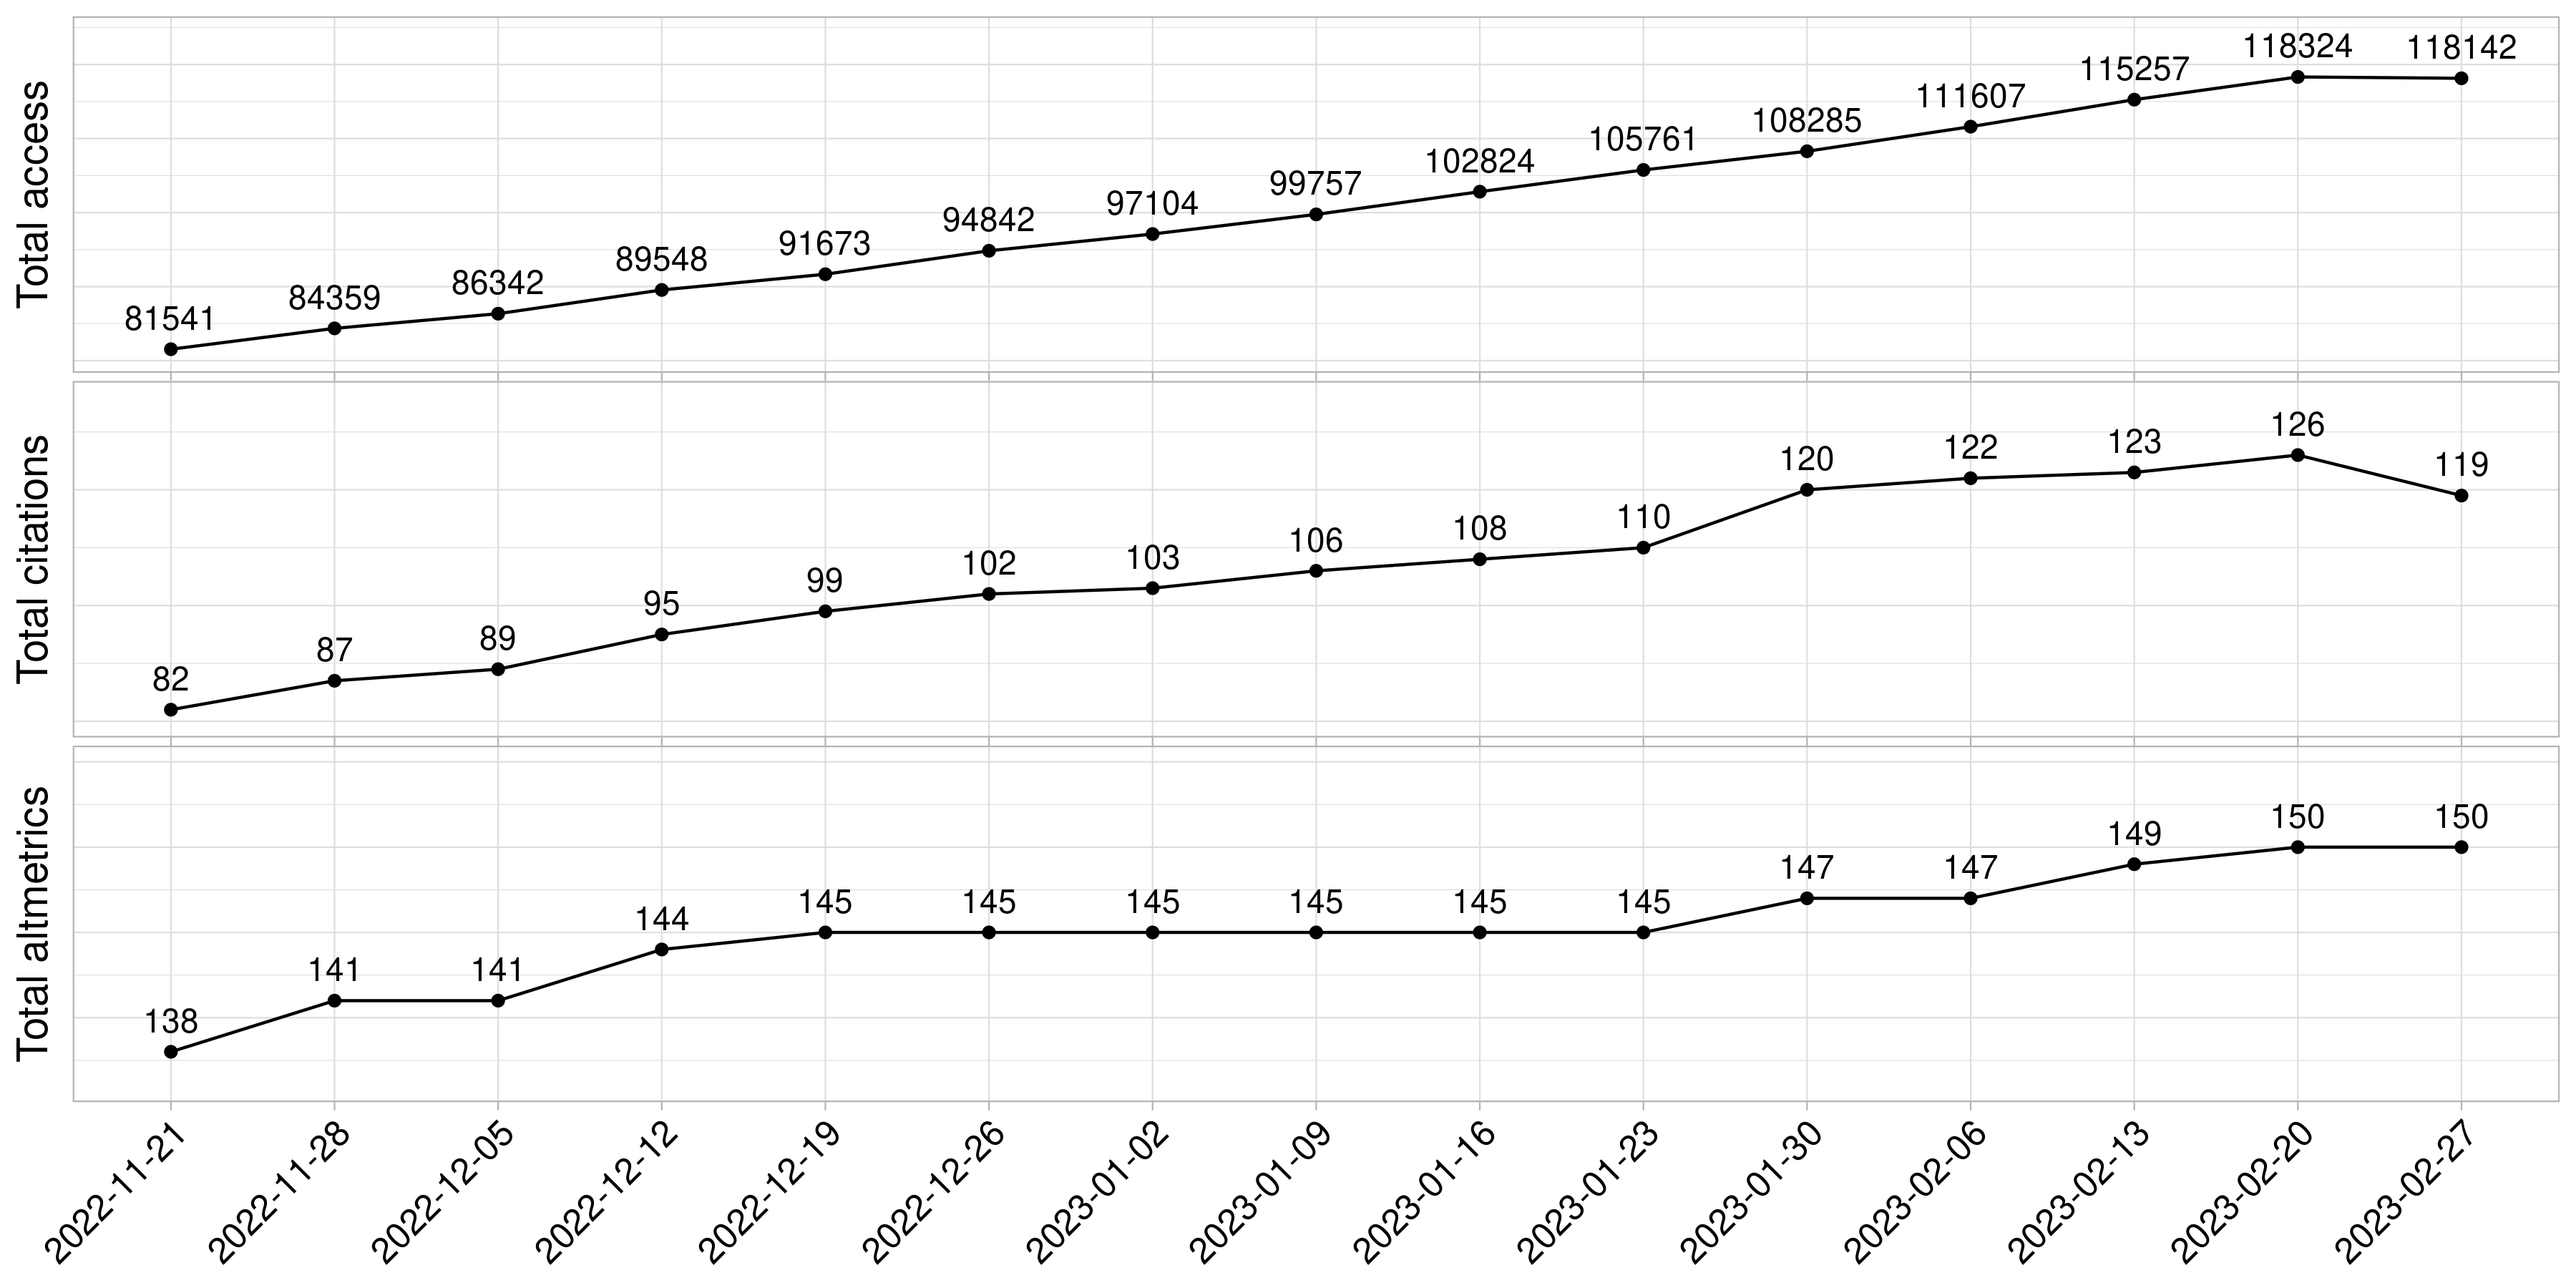
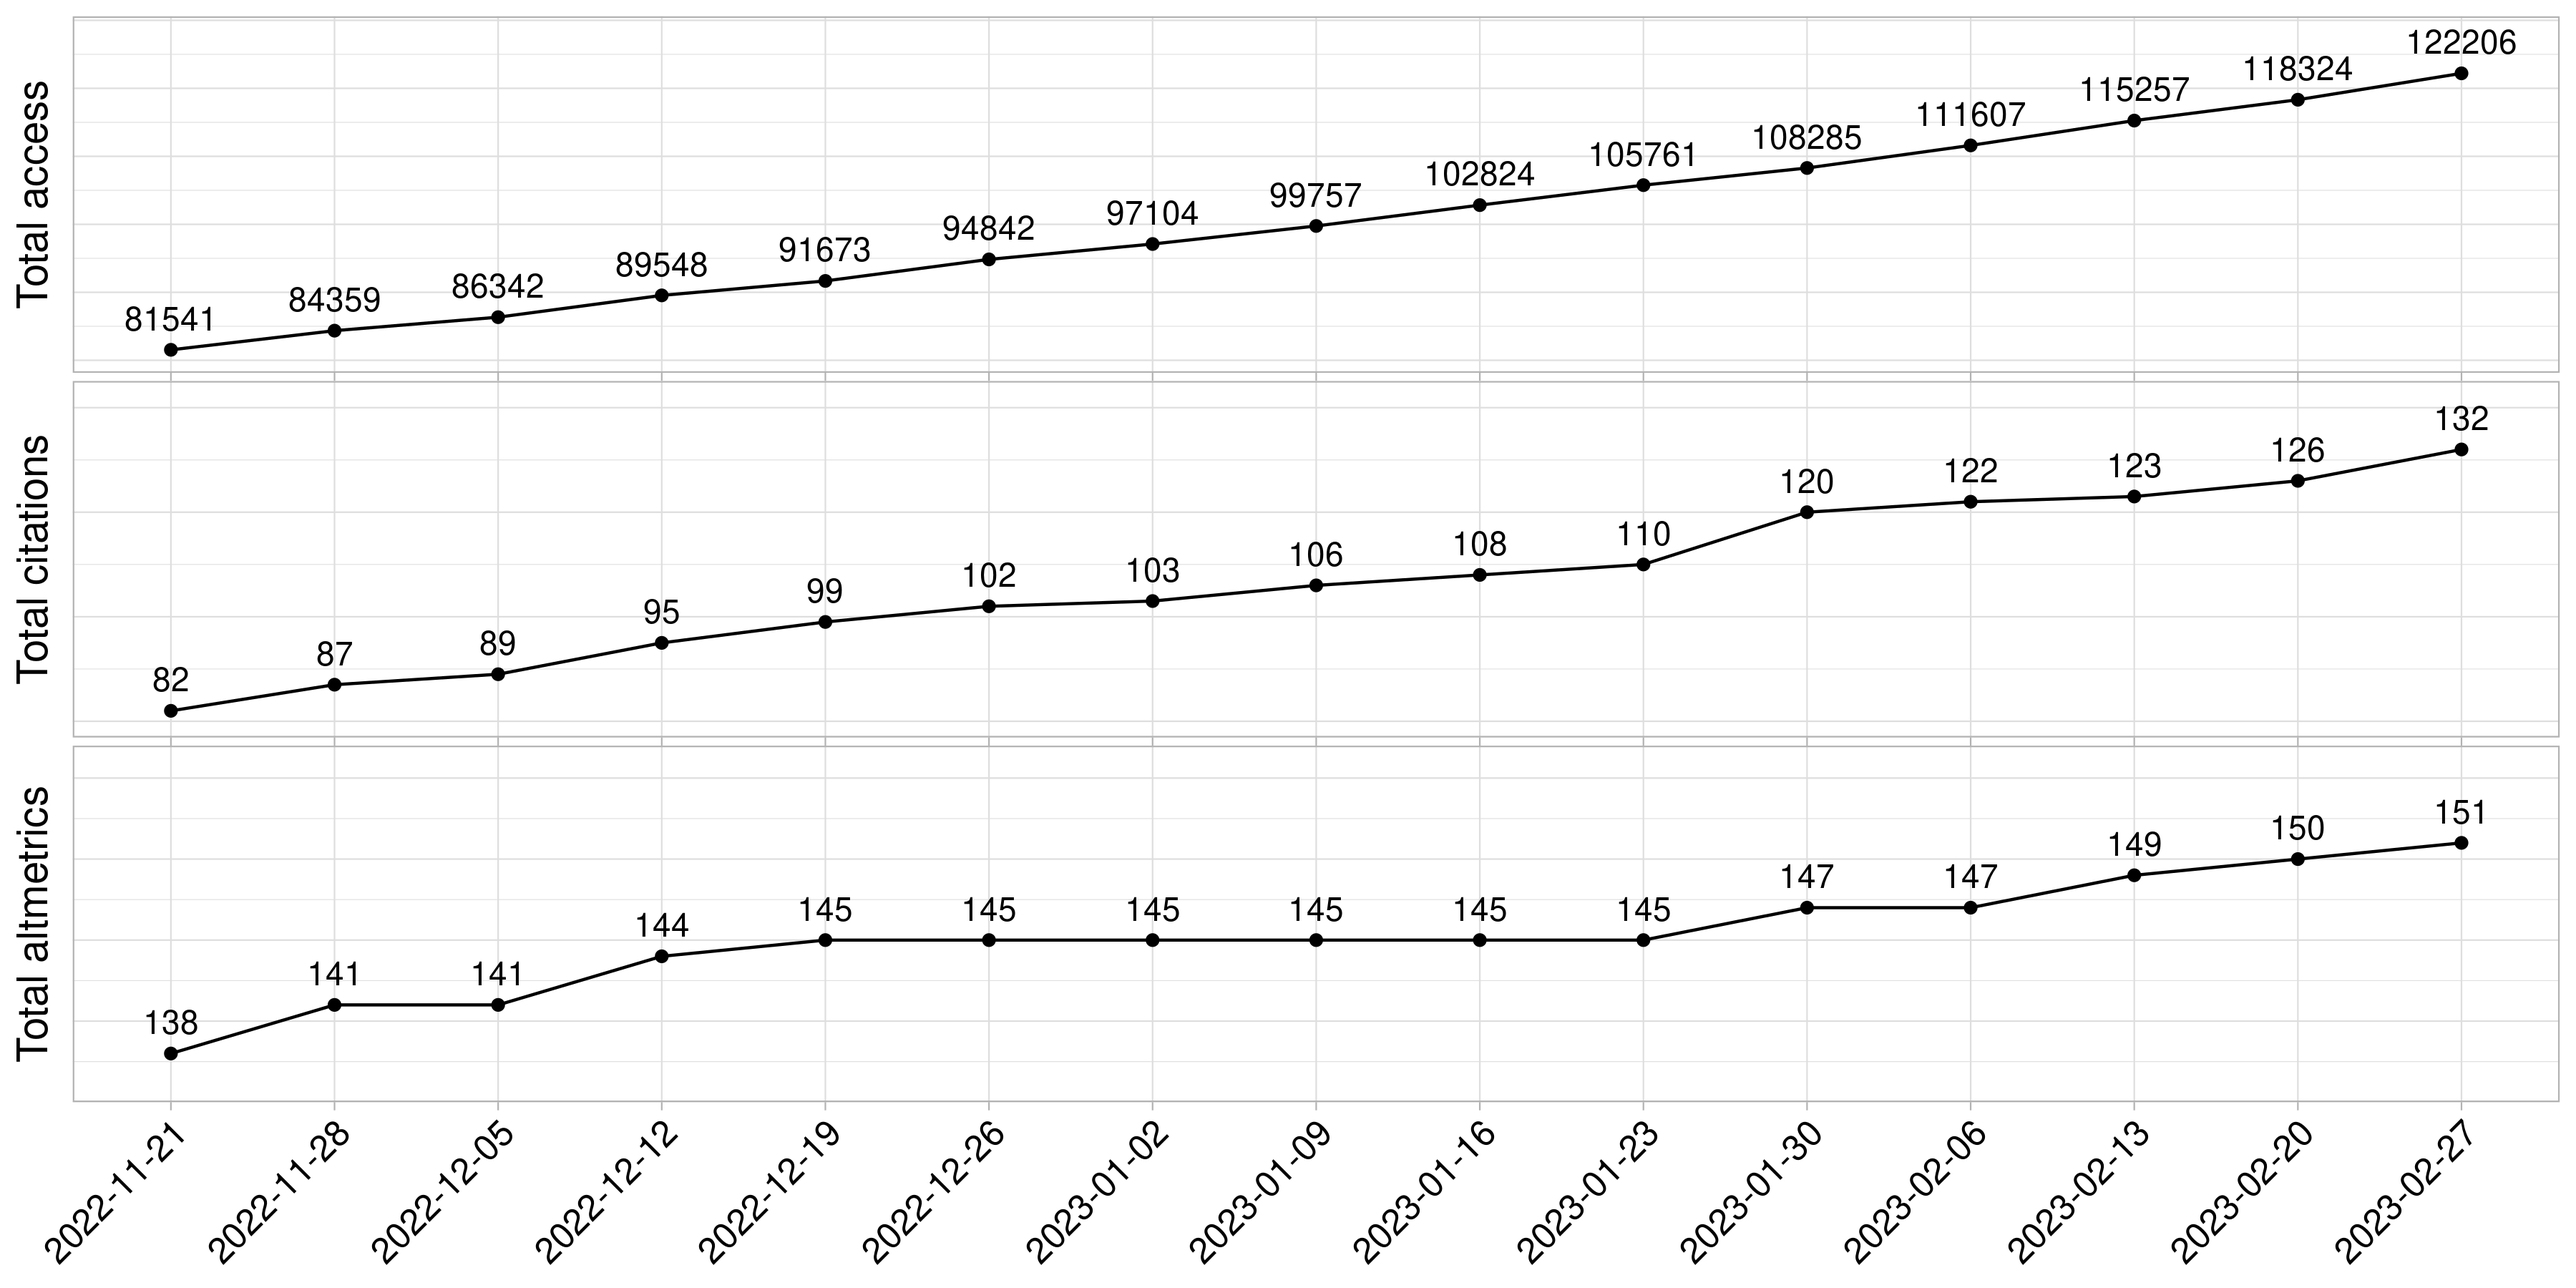
20230227

diff --git a/weekly_online_paper_metrices/README.md b/weekly_online_paper_metrices/README.md
@@ -36,7 +36,7 @@
    <td style="text-align:center;"> <a href="http://link.springer.com/article/10.1007/s43657-022-00093-8" style="     " >Presence of Rare Variants is ...</a> </td>
    <td style="text-align:center;"> Article </td>
    <td style="text-align:center;"> 2023-02-12 </td>
-   <td style="text-align:center;"> 199 </td>
+   <td style="text-align:center;"> 205 </td>
    <td style="text-align:center;"> 0 </td>
    <td style="text-align:center;"> 0 </td>
    <td style="text-align:center;"> NA </td>
@@ -46,7 +46,7 @@
    <td style="text-align:center;"> <a href="http://link.springer.com/article/10.1007/s43657-022-00089-4" style="     " >Phenomic Studies on Diseases: Potential ...</a> </td>
    <td style="text-align:center;"> Review </td>
    <td style="text-align:center;"> 2023-01-05 </td>
-   <td style="text-align:center;"> 420 </td>
+   <td style="text-align:center;"> 430 </td>
    <td style="text-align:center;"> 1 </td>
    <td style="text-align:center;"> 1 </td>
    <td style="text-align:center;"> NA </td>
@@ -56,7 +56,7 @@
    <td style="text-align:center;"> <a href="http://link.springer.com/article/10.1007/s43657-022-00087-6" style="     " >Deep Learning-Assisted Quantitative Susceptibility Mapping ...</a> </td>
    <td style="text-align:center;"> Article </td>
    <td style="text-align:center;"> 2023-01-05 </td>
-   <td style="text-align:center;"> 350 </td>
+   <td style="text-align:center;"> 354 </td>
    <td style="text-align:center;"> 0 </td>
    <td style="text-align:center;"> 1 </td>
    <td style="text-align:center;"> NA </td>
@@ -106,7 +106,7 @@
    <td style="text-align:center;"> <a href="http://link.springer.com/article/10.1007/s43657-022-00082-x" style="     " >A Genome-Wide Association Study for ...</a> </td>
    <td style="text-align:center;"> Article </td>
    <td style="text-align:center;"> 2022-12-05 </td>
-   <td style="text-align:center;"> 560 </td>
+   <td style="text-align:center;"> 564 </td>
    <td style="text-align:center;"> 0 </td>
    <td style="text-align:center;"> 1 </td>
    <td style="text-align:center;"> NA </td>
@@ -136,7 +136,7 @@
    <td style="text-align:center;"> <a href="http://link.springer.com/article/10.1007/s43657-022-00078-7" style="     " >A Meta-Analysis of the Genome-Wide ...</a> </td>
    <td style="text-align:center;"> Article </td>
    <td style="text-align:center;"> 2022-11-18 </td>
-   <td style="text-align:center;"> 837 </td>
+   <td style="text-align:center;"> 840 </td>
    <td style="text-align:center;"> 0 </td>
    <td style="text-align:center;"> 7 </td>
    <td style="text-align:center;"> 3 </td>
@@ -146,7 +146,7 @@
    <td style="text-align:center;"> <a href="http://link.springer.com/article/10.1007/s43657-022-00069-8" style="     " >Increased Soluble Epoxide Hydrolase Activity ...</a> </td>
    <td style="text-align:center;"> Article </td>
    <td style="text-align:center;"> 2022-10-27 </td>
-   <td style="text-align:center;"> 744 </td>
+   <td style="text-align:center;"> 747 </td>
    <td style="text-align:center;"> 0 </td>
    <td style="text-align:center;"> 1 </td>
    <td style="text-align:center;"> 3 </td>
@@ -186,7 +186,7 @@
    <td style="text-align:center;"> <a href="http://link.springer.com/article/10.1007/s43657-022-00073-y" style="     " >Skin Microbiome, Metabolome and Skin ...</a> </td>
    <td style="text-align:center;"> Review </td>
    <td style="text-align:center;"> 2022-10-10 </td>
-   <td style="text-align:center;"> 2097 </td>
+   <td style="text-align:center;"> 2106 </td>
    <td style="text-align:center;"> 0 </td>
    <td style="text-align:center;"> 2 </td>
    <td style="text-align:center;"> 2 </td>
@@ -256,7 +256,7 @@
    <td style="text-align:center;"> <a href="http://link.springer.com/article/10.1007/s43657-022-00064-z" style="     " >Cross-sectional Exploration of the Relationship ...</a> </td>
    <td style="text-align:center;"> Article </td>
    <td style="text-align:center;"> 2022-08-16 </td>
-   <td style="text-align:center;"> 778 </td>
+   <td style="text-align:center;"> 781 </td>
    <td style="text-align:center;"> 0 </td>
    <td style="text-align:center;"> 2 </td>
    <td style="text-align:center;"> NA </td>
@@ -266,7 +266,7 @@
    <td style="text-align:center;"> <a href="http://link.springer.com/article/10.1007/s43657-022-00066-x" style="     " >Human Genetic Variants Associated with ...</a> </td>
    <td style="text-align:center;"> Article </td>
    <td style="text-align:center;"> 2022-08-13 </td>
-   <td style="text-align:center;"> 1218 </td>
+   <td style="text-align:center;"> 1223 </td>
    <td style="text-align:center;"> 2 </td>
    <td style="text-align:center;"> 2 </td>
    <td style="text-align:center;"> 2 </td>
@@ -326,7 +326,7 @@
    <td style="text-align:center;"> <a href="http://link.springer.com/article/10.1007/s43657-022-00062-1" style="     " >Identification of Germline Mutations in ...</a> </td>
    <td style="text-align:center;"> Article </td>
    <td style="text-align:center;"> 2022-06-11 </td>
-   <td style="text-align:center;"> 1208 </td>
+   <td style="text-align:center;"> 1210 </td>
    <td style="text-align:center;"> 1 </td>
    <td style="text-align:center;"> 1 </td>
    <td style="text-align:center;"> NA </td>
@@ -356,7 +356,7 @@
    <td style="text-align:center;"> <a href="http://link.springer.com/article/10.1007/s43657-021-00043-w" style="     " >Emerging Regulatory Mechanisms of N6-Methyladenosine ...</a> </td>
    <td style="text-align:center;"> Review </td>
    <td style="text-align:center;"> 2022-05-25 </td>
-   <td style="text-align:center;"> 1221 </td>
+   <td style="text-align:center;"> 1226 </td>
    <td style="text-align:center;"> 2 </td>
    <td style="text-align:center;"> 1 </td>
    <td style="text-align:center;"> 3 </td>
@@ -426,7 +426,7 @@
    <td style="text-align:center;"> <a href="http://link.springer.com/article/10.1007/s43657-022-00048-z" style="     " >A Comprehensive Review of High ...</a> </td>
    <td style="text-align:center;"> Review </td>
    <td style="text-align:center;"> 2022-04-04 </td>
-   <td style="text-align:center;"> 3549 </td>
+   <td style="text-align:center;"> 3562 </td>
    <td style="text-align:center;"> 14 </td>
    <td style="text-align:center;"> 7 </td>
    <td style="text-align:center;"> 2 </td>
@@ -476,7 +476,7 @@
    <td style="text-align:center;"> <a href="http://link.springer.com/article/10.1007/s43657-022-00045-2" style="     " >Immunosuppression Induced by Brain-Specific HDAC6 ...</a> </td>
    <td style="text-align:center;"> Article </td>
    <td style="text-align:center;"> 2022-02-23 </td>
-   <td style="text-align:center;"> 1184 </td>
+   <td style="text-align:center;"> 1188 </td>
    <td style="text-align:center;"> 0 </td>
    <td style="text-align:center;"> 0 </td>
    <td style="text-align:center;"> 2 </td>
@@ -536,7 +536,7 @@
    <td style="text-align:center;"> <a href="http://link.springer.com/article/10.1007/s43657-021-00038-7" style="     " >Seasonality and Sex-Biased Fluctuation of ...</a> </td>
    <td style="text-align:center;"> Article </td>
    <td style="text-align:center;"> 2022-01-31 </td>
-   <td style="text-align:center;"> 943 </td>
+   <td style="text-align:center;"> 945 </td>
    <td style="text-align:center;"> 0 </td>
    <td style="text-align:center;"> 0 </td>
    <td style="text-align:center;"> 2 </td>
@@ -546,7 +546,7 @@
    <td style="text-align:center;"> <a href="http://link.springer.com/article/10.1007/s43657-021-00037-8" style="     " >Why Do We Care More ...</a> </td>
    <td style="text-align:center;"> Commentary </td>
    <td style="text-align:center;"> 2022-01-28 </td>
-   <td style="text-align:center;"> 2447 </td>
+   <td style="text-align:center;"> 2449 </td>
    <td style="text-align:center;"> 4 </td>
    <td style="text-align:center;"> 21 </td>
    <td style="text-align:center;"> 2 </td>
@@ -566,7 +566,7 @@
    <td style="text-align:center;"> <a href="http://link.springer.com/article/10.1007/s43657-021-00034-x" style="     " >Pan-cancer analysis identifies RNA helicase ...</a> </td>
    <td style="text-align:center;"> Article </td>
    <td style="text-align:center;"> 2022-01-19 </td>
-   <td style="text-align:center;"> 1414 </td>
+   <td style="text-align:center;"> 1417 </td>
    <td style="text-align:center;"> 0 </td>
    <td style="text-align:center;"> 0 </td>
    <td style="text-align:center;"> 2 </td>
@@ -606,7 +606,7 @@
    <td style="text-align:center;"> <a href="http://link.springer.com/article/10.1007/s43657-021-00028-9" style="     " >CYP2C9*3 Increases the Ibuprofen Response ...</a> </td>
    <td style="text-align:center;"> Correspondence </td>
    <td style="text-align:center;"> 2021-11-11 </td>
-   <td style="text-align:center;"> 1048 </td>
+   <td style="text-align:center;"> 1051 </td>
    <td style="text-align:center;"> 0 </td>
    <td style="text-align:center;"> 0 </td>
    <td style="text-align:center;"> 2 </td>
@@ -706,7 +706,7 @@
    <td style="text-align:center;"> <a href="http://link.springer.com/article/10.1007/s43657-021-00019-w" style="     " >Computational Methods for Prediction of ...</a> </td>
    <td style="text-align:center;"> Review </td>
    <td style="text-align:center;"> 2021-08-06 </td>
-   <td style="text-align:center;"> 1897 </td>
+   <td style="text-align:center;"> 1899 </td>
    <td style="text-align:center;"> 2 </td>
    <td style="text-align:center;"> 3 </td>
    <td style="text-align:center;"> 1 </td>
@@ -776,7 +776,7 @@
    <td style="text-align:center;"> <a href="http://link.springer.com/article/10.1007/s43657-021-00011-4" style="     " >Distribution Atlas of COVID-19 Pneumonia ...</a> </td>
    <td style="text-align:center;"> Article </td>
    <td style="text-align:center;"> 2021-05-11 </td>
-   <td style="text-align:center;"> 2085 </td>
+   <td style="text-align:center;"> 2088 </td>
    <td style="text-align:center;"> 3 </td>
    <td style="text-align:center;"> 1 </td>
    <td style="text-align:center;"> 1 </td>
@@ -796,9 +796,9 @@
    <td style="text-align:center;"> <a href="http://link.springer.com/article/10.1007/s43657-020-00007-6" style="     " >High-Throughput Phenotyping: A Platform to ...</a> </td>
    <td style="text-align:center;"> Review </td>
    <td style="text-align:center;"> 2021-05-11 </td>
-   <td style="text-align:center;"> 0 </td>
-   <td style="text-align:center;"> 0 </td>
-   <td style="text-align:center;"> 0 </td>
+   <td style="text-align:center;"> 3978 </td>
+   <td style="text-align:center;"> 13 </td>
+   <td style="text-align:center;"> 1 </td>
    <td style="text-align:center;"> 1 </td>
    <td style="text-align:center;"> 2 </td>
   </tr>
